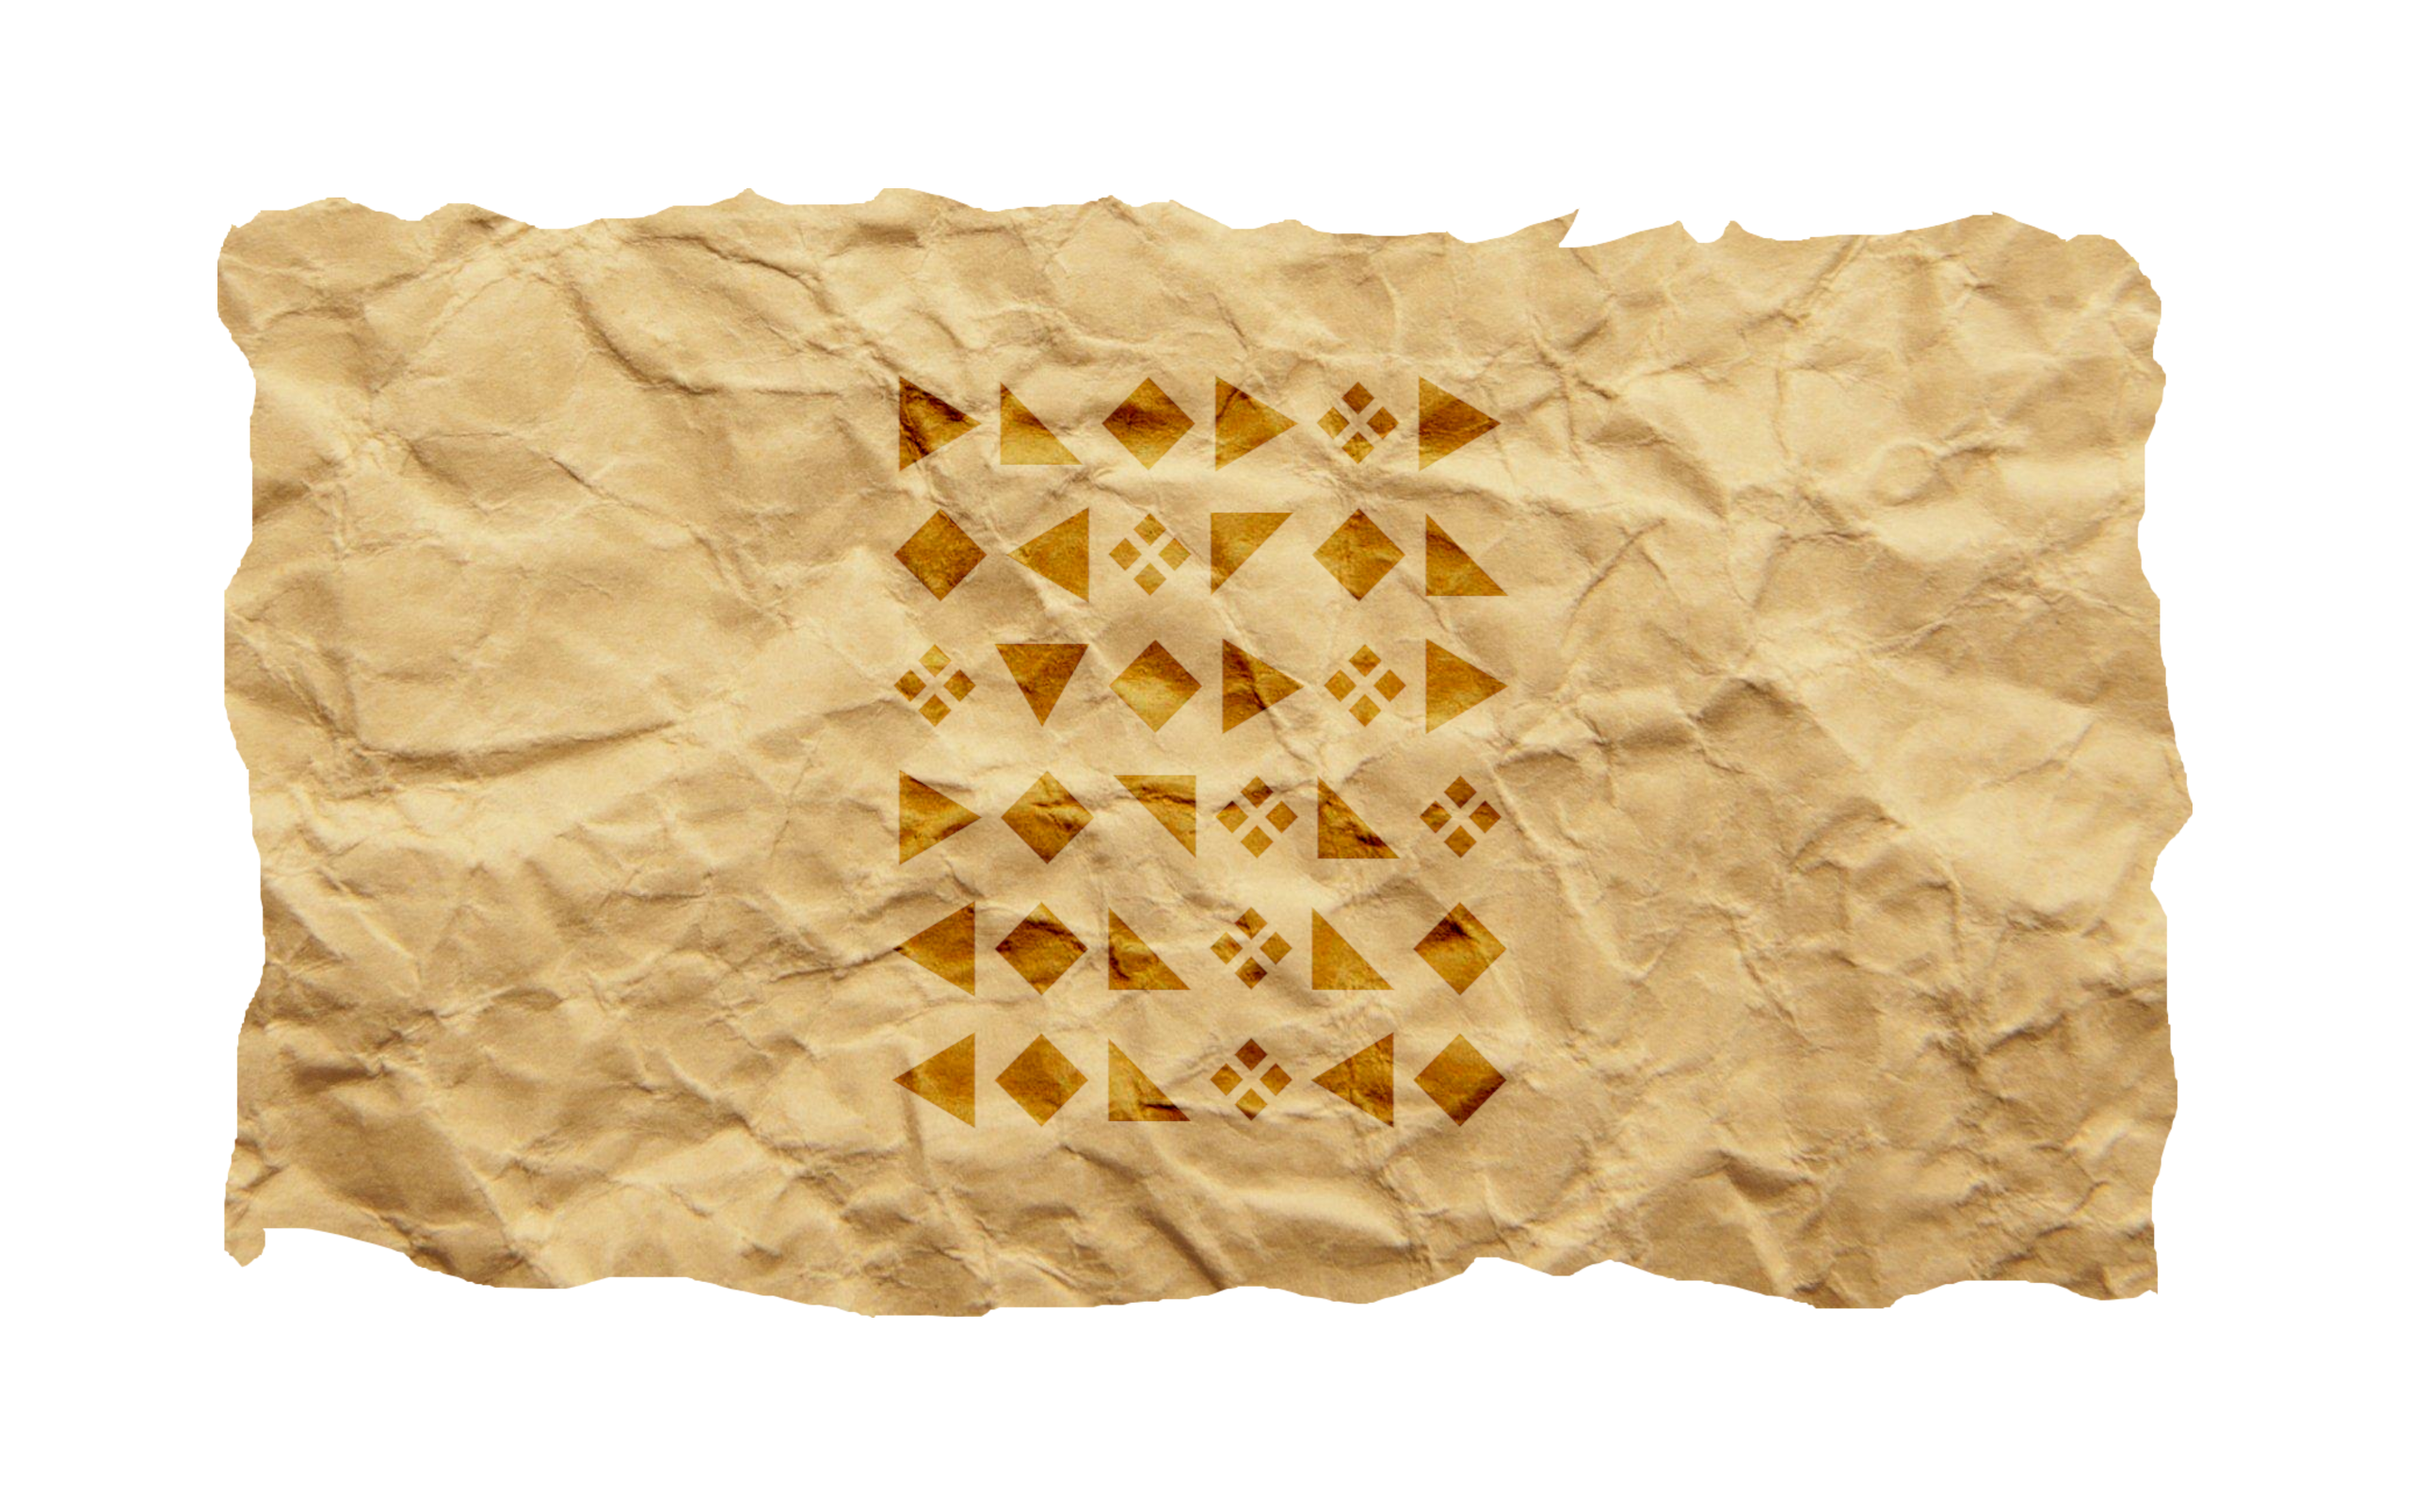
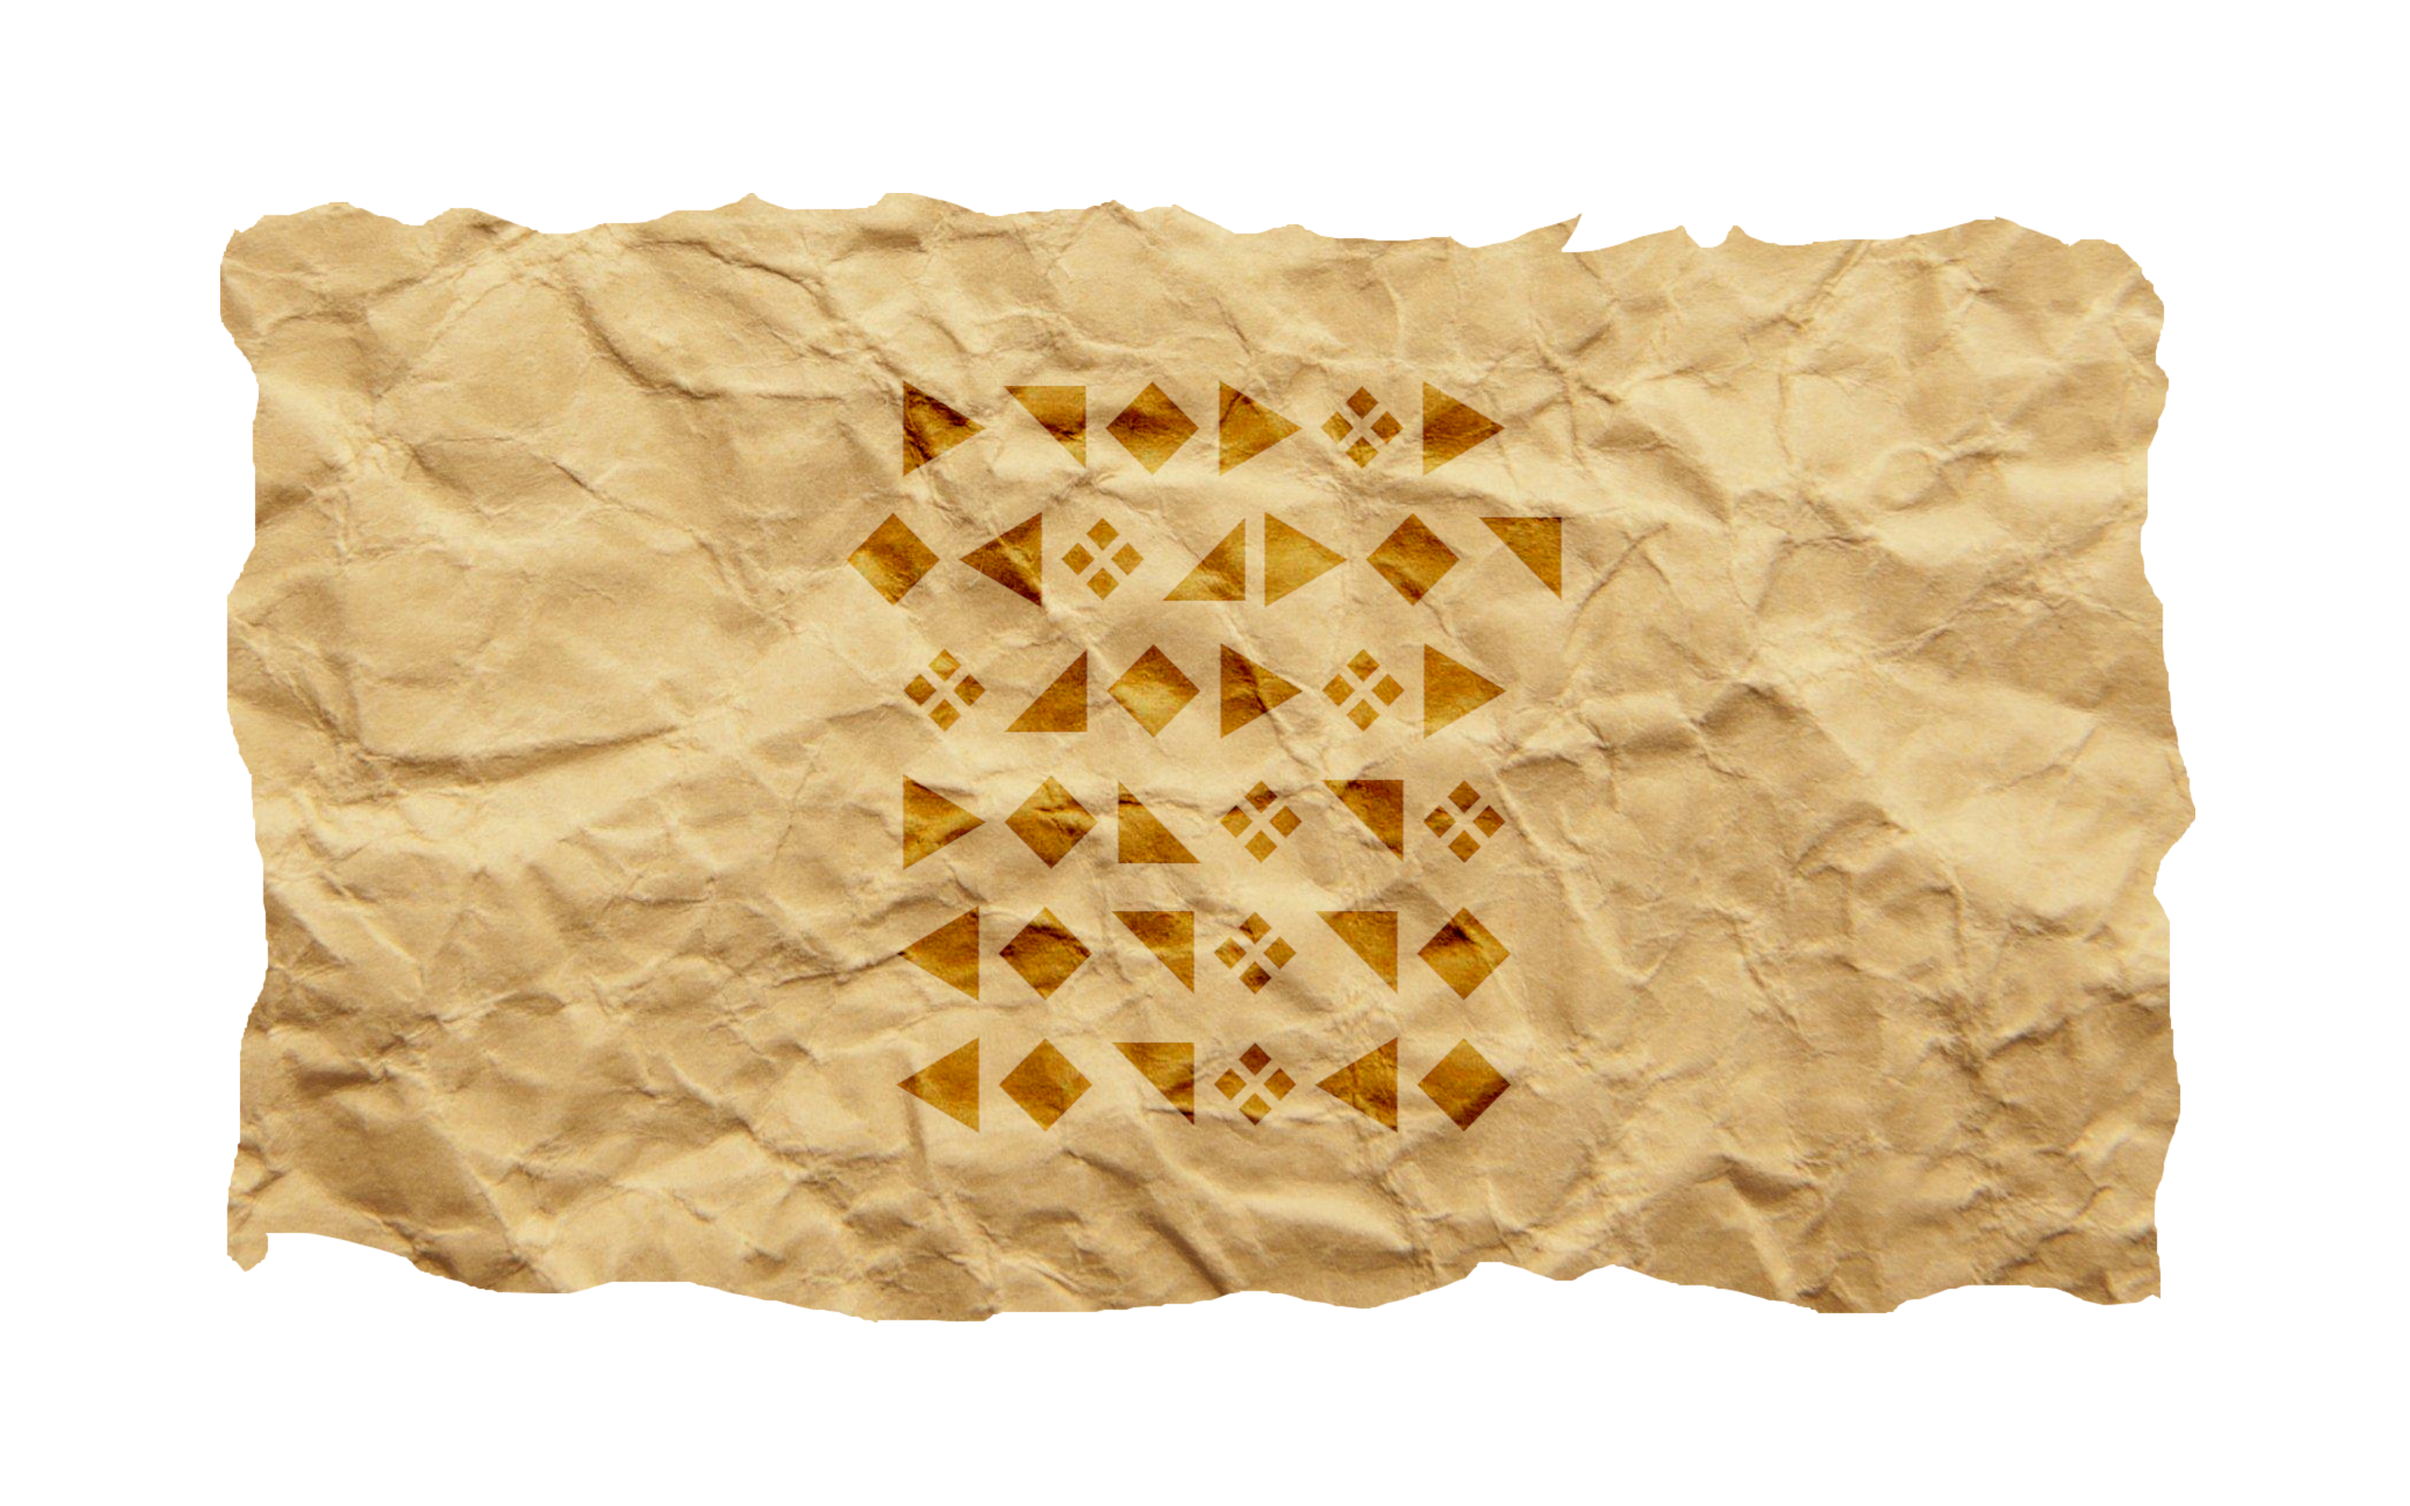
updated rr2 and rr7 images, implemented backend security for answer checks

diff --git a/src/app/api/passcheck/answerget/route.ts b/src/app/api/passcheck/answerget/route.ts
@@ -1,0 +1,63 @@
+import mongoose from 'mongoose';
+import User from '@/models/User'; // Ensure User model is correctly typed
+import { NextRequest, NextResponse } from 'next/server'; // Import necessary types
+import dotenv from 'dotenv';
+
+dotenv.config();
+
+// Connect to MongoDB
+const connectToDatabase = async (): Promise<void> => {
+  if (mongoose.connection.readyState === 0) {
+    await mongoose.connect(process.env.MONGODB_URI as string);
+  }
+};
+
+interface RequestBody {
+  activeSeries: string;
+  puzzleNoVisible: number;
+  username: string;
+}
+
+export async function POST(request: NextRequest): Promise<NextResponse> {
+  const { activeSeries, puzzleNoVisible, username }: RequestBody = await request.json(); // Extract data from request body
+  const storedAnswers: Record<string, string[]> = JSON.parse(process.env.ANSWER_KEY as string); // Parse stored answers
+
+  const activeSeriesCheck = typeof activeSeries === 'string'; // Ensure activeSeries is a string
+  const puzzleNoVisibleCheck = typeof puzzleNoVisible === 'number'; // Ensure puzzleNo is a number
+
+  await connectToDatabase(); // Ensure database connection
+
+  try {
+    // Ensure the answer is actually in the database first
+    let answerObtained = false;
+
+    const user = await User.findOne({ username: username });
+
+    if (user) {
+      if (activeSeries === "mathmania" && user.mathmaniaSolved.includes(puzzleNoVisible)) {
+        answerObtained = true;
+      } else if (activeSeries === "puzzleparadise" && user.puzzleparadiseSolved.includes(puzzleNoVisible)) {
+        answerObtained = true;
+      } else if (activeSeries === "riddlingrewind" && user.riddlingrewindSolved.includes(puzzleNoVisible)) {
+        answerObtained = true;
+      }
+    }
+
+    const isValid =
+      activeSeriesCheck &&
+      storedAnswers[activeSeries] &&
+      puzzleNoVisibleCheck &&
+      puzzleNoVisible > 0 &&
+      puzzleNoVisible <= storedAnswers[activeSeries].length;
+
+    if (isValid && answerObtained && storedAnswers[activeSeries][puzzleNoVisible - 1]) {
+      const correctAnswer = storedAnswers[activeSeries][puzzleNoVisible - 1];
+      return new NextResponse(JSON.stringify({ answer: correctAnswer }), { status: 200, headers: { "Content-Type": "application/json" } });
+    } else {
+      return new NextResponse(JSON.stringify({ error: "Answer not found" }), { status: 404, headers: { "Content-Type": "application/json" } });
+    }
+  } catch (error) {
+    console.error("Error retrieving answer:", error);
+    return new NextResponse(JSON.stringify({ error: "Error retrieving answer" }), { status: 500, headers: { "Content-Type": "application/json" } });
+  }
+}

diff --git a/src/app/api/passcheck/layoutstatus/route.ts b/src/app/api/passcheck/layoutstatus/route.ts
@@ -1,0 +1,68 @@
+import mongoose from 'mongoose';
+import User from '@/models/User'; // Ensure User model is correctly typed
+import { NextRequest, NextResponse } from 'next/server'; // Import necessary types
+require("dotenv").config();
+
+// Connect to MongoDB
+const connectToDatabase = async (): Promise<void> => {
+  if (mongoose.connection.readyState === 0) {
+    await mongoose.connect(process.env.MONGODB_URI as string);
+  }
+};
+
+export async function POST(request: NextRequest): Promise<NextResponse> {
+  const { activeSeries, username }: { activeSeries: number; username: string } = await request.json();
+
+  const activeSeriesCheck = typeof activeSeries === 'number'; // Ensure activeSeries is a number
+
+  const arrayLengths = [9, 18, 23];
+
+  await connectToDatabase(); // Ensure database connection
+
+  try {
+    const user = await User.findOne({ username: username });
+
+    if (!user) {
+      return new NextResponse(
+        JSON.stringify({ statuses: Array(arrayLengths[activeSeries]).fill(null) }), 
+        { status: 200, headers: { "Content-Type": "application/json" } }
+      );
+    } else if (activeSeriesCheck && activeSeries >= 0 && activeSeries <= 2) {
+
+      let statuses = Array(arrayLengths[activeSeries]).fill(null);
+      let completedArray: number[] = [];
+      
+      if (activeSeries === 0) {
+        completedArray = user.mathmaniaSolved; // Assuming this is the correct array name
+      } else if (activeSeries === 1) {
+        completedArray = user.puzzleparadiseSolved; // Assuming this is the correct array name
+      } else if (activeSeries === 2) {
+        completedArray = user.riddlingrewindSolved; // Assuming this is the correct array name
+      }
+
+      completedArray.forEach((index) => {
+        // Ensure the index is within bounds
+        if (index > 0 && index <= statuses.length) {
+          statuses[index - 1] = true;
+        }
+      });
+
+      return new NextResponse(
+        JSON.stringify({ statuses }), 
+        { status: 200, headers: { "Content-Type": "application/json" } }
+      );
+    }
+  } catch (err) {
+    console.error("Error fetching layout statuses:", err);
+    return new NextResponse(
+      JSON.stringify({ error: "Server error" }), 
+      { status: 500, headers: { "Content-Type": "application/json" } }
+    );
+  }
+
+  // If it falls through without returning, send a generic error response
+  return new NextResponse(
+    JSON.stringify({ error: "Invalid request" }), 
+    { status: 400, headers: { "Content-Type": "application/json" } }
+  );
+}

diff --git a/src/components/PuzzleView/PuzzleView.tsx b/src/components/PuzzleView/PuzzleView.tsx
@@ -57,12 +57,13 @@ const PuzzleView: React.FC<PuzzleViewProps> = ({
   // Fetches answer to auto-fill text field if user has already solved puzzle, clears input field on logout
   useEffect(() => {
     const fetchAnswer = async () => {
-      if (puzzleSolved) {
+      if (username && puzzleSolved) {
         try {
 
           const response = await axios.post("/api/passcheck/answerget", {
             activeSeries,
-            puzzleNoVisible
+            puzzleNoVisible,
+            username
           });
           setAnswer(response.data.answer);
 
@@ -71,9 +72,6 @@ const PuzzleView: React.FC<PuzzleViewProps> = ({
           console.error("Error fetching answer:", err);
 
         }
-      }
-      else if (!username && puzzleSolved) {
-        setAnswer("");
       }
     };
 

diff --git a/src/components/MainArea/MainArea.tsx b/src/components/MainArea/MainArea.tsx
@@ -56,7 +56,7 @@ const MainArea: React.FC<MainAreaProps> = ({ activeTitle }) => {
         ])
       }, 250);
     }
-  }, [username]);
+  }, [username, puzzleVisible]);
   
   // Occurs whenever activeSeries or username changes, layout status is updated for preloading
   useEffect(() => {
@@ -162,6 +162,7 @@ const MainArea: React.FC<MainAreaProps> = ({ activeTitle }) => {
       return updatedStatuses;
     });
   };
+
 
   return (
     <div className="relative flex flex-grow">
